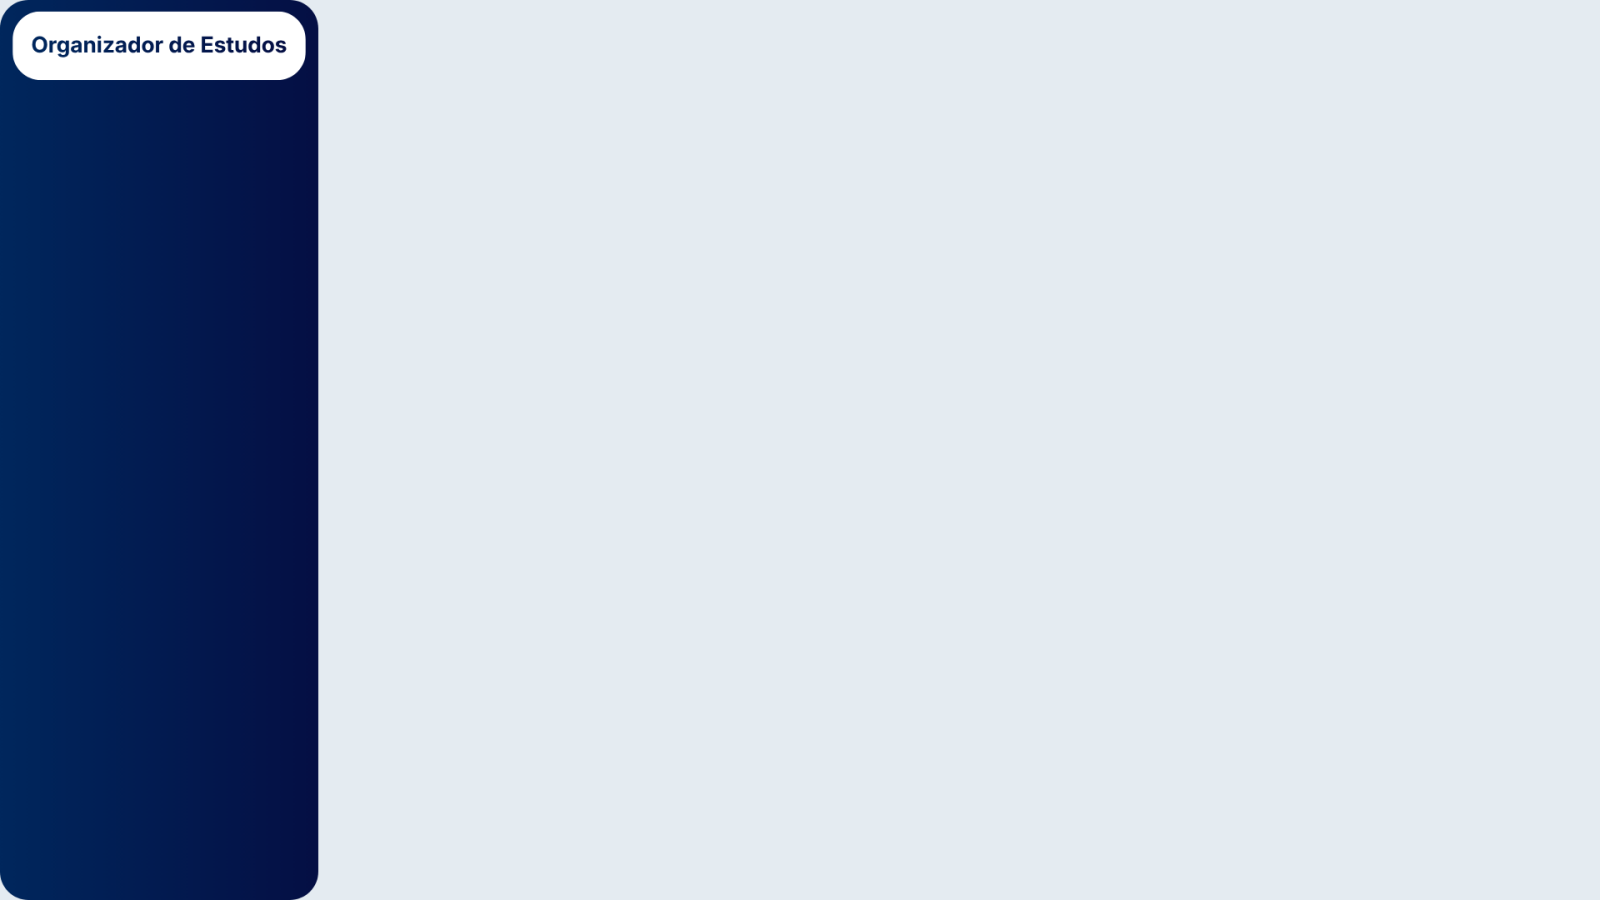
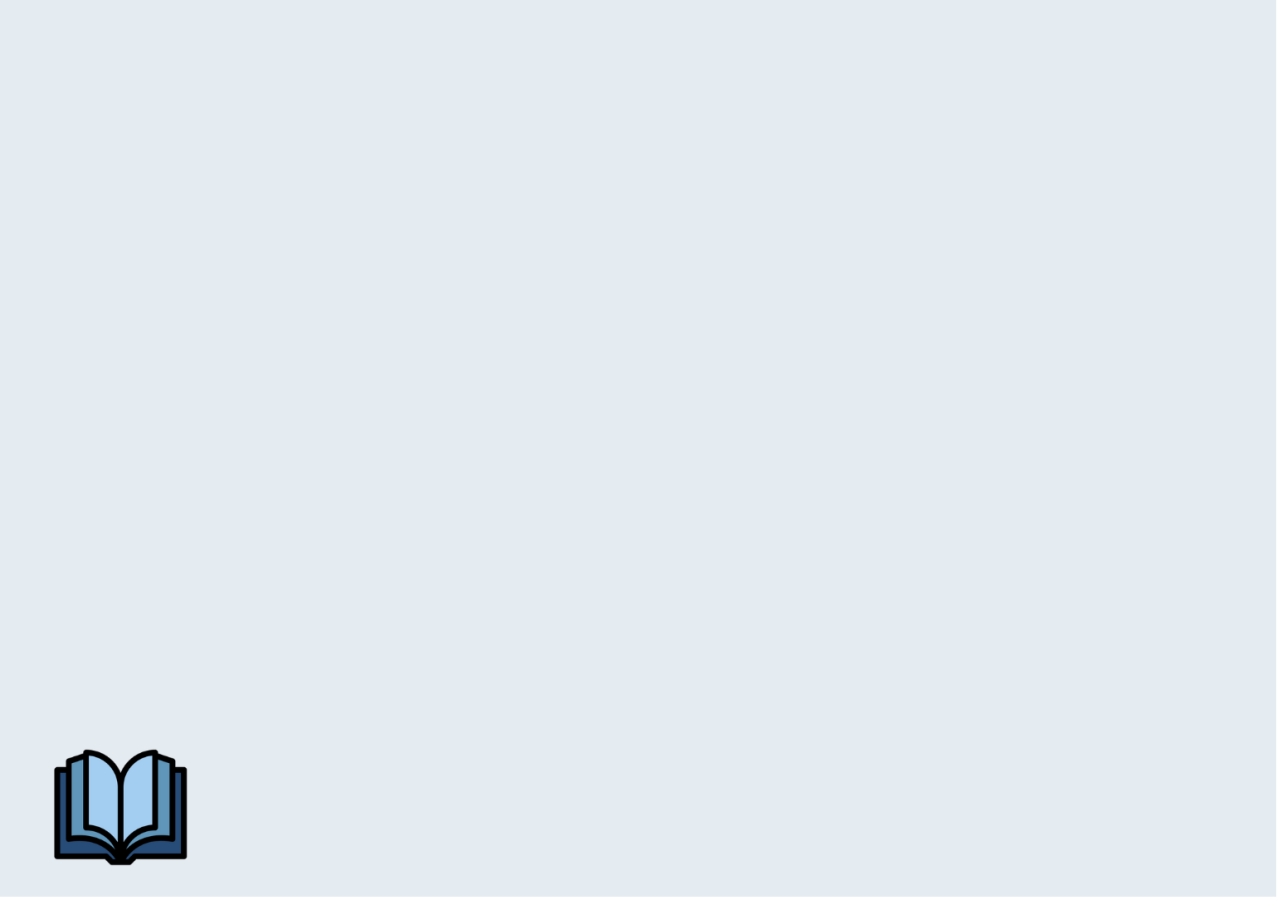
arrumei a lógica da interface

Changed region(s): [[0.0, 0.0, 1.0, 1.0]]

diff --git a/interface.py b/interface.py
@@ -39,7 +39,9 @@ def carregar_imagens():
     global imagem_botao_estatisticas
     global imagem_botao_sair
     global imagem_fundo
+    global imagem_menu_lateral
 
+    imagem_menu_lateral = tk.PhotoImage(file="imagens/menu_lateral.png")
     imagem_fundo = tk.PhotoImage(file="imagens/background.png")
     imagem_botao_materias = tk.PhotoImage(file="imagens/botao_materias.png")
     imagem_tela_inicial = tk.PhotoImage(file="imagens/tela_inicial.png")
@@ -52,59 +54,74 @@ def carregar_imagens():
     imagem_botao_sair = tk.PhotoImage(file="imagens/botao_sair.png")
 
 janela = None
+resto_tela = None
+
+def carregar_conteudo():
+    global resto_tela
+
+    resto_tela = tk.Frame(janela,bg=cor_fundo)
+    resto_tela.place(relx=0.2,rely=0,relwidth=0.8,relheight=1)
 
 
-def interface(tela,mudar_tela):
-    
+
+def carregar_menu(mudar_tela):
+    menu = tk.Frame(janela,bg=cor_fundo)
+    menu.place(relx=0,rely=0,relwidth=0.2,relheight=1)
+
+
+    menu_lateral = tk.Label(menu,image=imagem_menu_lateral,bg=cor_fundo)
+    menu_lateral.place(relx=0,rely=0)
+
+    botao_inicio = tk.Button(menu,image=imagem_botao_inicio,relief="flat",highlightthickness=0,bg=cor_fundo_botao,command= lambda:mudar_tela(1))
+    botao_inicio.place(relx = 0.1, rely = 0.15)
+
+    botao_materias = tk.Button(menu,image=imagem_botao_materias,relief="flat",highlightthickness=0,bg=cor_fundo_botao,command= lambda:mudar_tela(2))
+    botao_materias.place(relx = 0.1, rely = 0.22)
+
+    botao_tarefas = tk.Button(menu,image=imagem_botao_tarefas,relief="flat",highlightthickness=0,bg=cor_fundo_botao,command= lambda:mudar_tela(3))
+    botao_tarefas.place(relx = 0.1, rely = 0.29)
+
+    botao_planejamento=tk.Button(menu,image=imagem_botao_planejamento,relief="flat",highlightthickness=0,bg=cor_fundo_botao,command= lambda:mudar_tela(4))
+    botao_planejamento.place(relx = 0.1, rely = 0.36)
+
+    botao_cronometro=tk.Button(menu,image=imagem_botao_cronometro,relief="flat",highlightthickness=0,bg=cor_fundo_botao,command= lambda:mudar_tela(5))
+    botao_cronometro.place(relx = 0.1, rely = 0.43)
+
+    botao_historico=tk.Button(menu,image=imagem_botao_historico,relief="flat",highlightthickness=0,bg=cor_fundo_botao,command= lambda:mudar_tela(6))
+    botao_historico.place(relx = 0.1, rely = 0.50)
+
+    botao_estatisticas=tk.Button(menu,image=imagem_botao_estatisticas,relief="flat",highlightthickness=0,bg=cor_fundo_botao,command= lambda:mudar_tela(7))
+    botao_estatisticas.place(relx = 0.1, rely = 0.57)
+
+    botao_sair=tk.Button(menu,image=imagem_botao_sair,relief="flat",highlightthickness=0,bg=cor_fundo_botao,command= lambda:mudar_tela(-1))
+    botao_sair.place(relx = 0.1, rely = 0.9)
+
+def interface(tela):
 
     if tela == 1:
-        fundo = tk.Label(janela,bg=cor_fundo,image=imagem_tela_inicial)
+        fundo = tk.Label(resto_tela,bg=cor_fundo,image=imagem_tela_inicial)
         fundo.place(x=0,y=0)
         
     elif tela == 2:
-        background = tk.Label(janela,image=imagem_fundo)
+        background = tk.Label(resto_tela,image=imagem_fundo)
         background.place(x=0,y=0)
     elif tela ==3:
-        background = tk.Label(janela,image=imagem_fundo)
+        background = tk.Label(resto_tela,image=imagem_fundo)
         background.place(x=0,y=0)
     elif tela ==4:
-        background = tk.Label(janela,image=imagem_fundo)
+        background = tk.Label(resto_tela,image=imagem_fundo)
         background.place(x=0,y=0)
     elif tela ==5:
-        background = tk.Label(janela,image=imagem_fundo)
+        background = tk.Label(resto_tela,image=imagem_fundo)
         background.place(x=0,y=0)
     elif tela ==6:
-        background = tk.Label(janela,image=imagem_fundo)
+        background = tk.Label(resto_tela,image=imagem_fundo)
         background.place(x=0,y=0)
     elif tela ==7:
-        background = tk.Label(janela,image=imagem_fundo)
+        background = tk.Label(resto_tela,image=imagem_fundo)
         background.place(x=0,y=0)
 
 
-        
-    botao_inicio = tk.Button(janela,image=imagem_botao_inicio,relief="flat",highlightthickness=0,bg=cor_fundo_botao,command= lambda:mudar_tela(1))
-    botao_inicio.place(relx = 0.1, rely = 0.15,anchor="center")
 
-    botao_materias = tk.Button(janela,image=imagem_botao_materias,relief="flat",highlightthickness=0,bg=cor_fundo_botao,command= lambda:mudar_tela(2))
-    botao_materias.place(relx = 0.1, rely = 0.22,anchor="center")
-
-    botao_tarefas = tk.Button(janela,image=imagem_botao_tarefas,relief="flat",highlightthickness=0,bg=cor_fundo_botao,command= lambda:mudar_tela(3))
-    botao_tarefas.place(relx = 0.1, rely = 0.29,anchor="center")
-
-    botao_planejamento=tk.Button(janela,image=imagem_botao_planejamento,relief="flat",highlightthickness=0,bg=cor_fundo_botao,command= lambda:mudar_tela(4))
-    botao_planejamento.place(relx = 0.1, rely = 0.36,anchor="center")
-
-    botao_cronometro=tk.Button(janela,image=imagem_botao_cronometro,relief="flat",highlightthickness=0,bg=cor_fundo_botao,command= lambda:mudar_tela(5))
-    botao_cronometro.place(relx = 0.1, rely = 0.43,anchor="center")
-
-    botao_historico=tk.Button(janela,image=imagem_botao_historico,relief="flat",highlightthickness=0,bg=cor_fundo_botao,command= lambda:mudar_tela(6))
-    botao_historico.place(relx = 0.1, rely = 0.50,anchor="center")
-
-    botao_estatisticas=tk.Button(janela,image=imagem_botao_estatisticas,relief="flat",highlightthickness=0,bg=cor_fundo_botao,command= lambda:mudar_tela(7))
-    botao_estatisticas.place(relx = 0.1, rely = 0.57,anchor="center")
-
-    botao_sair=tk.Button(janela,image=imagem_botao_sair,relief="flat",highlightthickness=0,bg=cor_fundo_botao,command= lambda:mudar_tela(-1))
-    botao_sair.place(relx = 0.1, rely = 0.9,anchor="center")
-    
 
         

diff --git a/main.py b/main.py
@@ -4,7 +4,7 @@ import interface
 
 
 tela = 1 
-def mudar_tela(nova_tela, dificuldade=None):
+def mudar_tela(nova_tela):
     global tela
 
     if nova_tela == -1: 
@@ -13,10 +13,10 @@ def mudar_tela(nova_tela, dificuldade=None):
 
     tela = nova_tela 
 
-    for widget in interface.janela.winfo_children():
+    for widget in interface.resto_tela.winfo_children():
         widget.destroy()
 
-    interface.interface(tela,mudar_tela)
+    interface.interface(tela)
 
 interface.janela = tk.Tk()
 interface.carregar_imagens()
@@ -24,5 +24,8 @@ interface.janela.geometry(f"{interface.largura}x{interface.altura}")
 interface.janela.resizable(False, False)
 interface.janela.configure(bg=interface.cor_fundo)
 
-interface.interface(tela, mudar_tela)
+
+interface.carregar_menu(mudar_tela)
+interface.carregar_conteudo()
+interface.interface(tela)
 interface.janela.mainloop()
